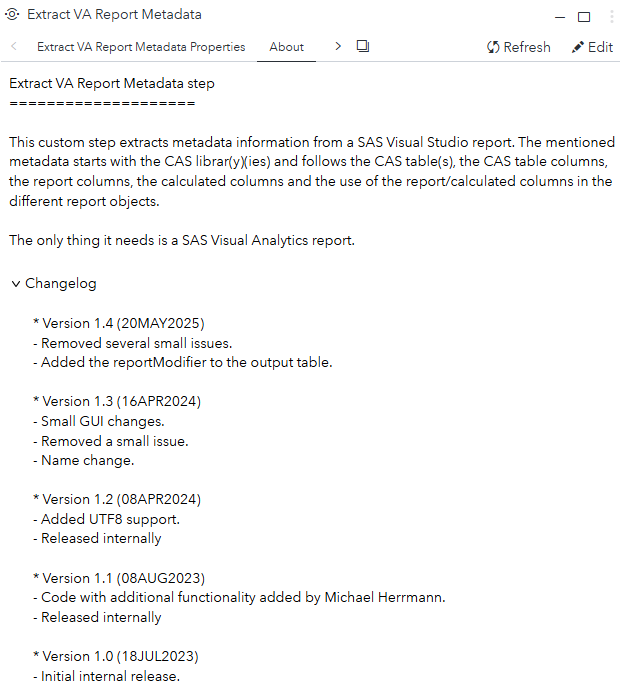
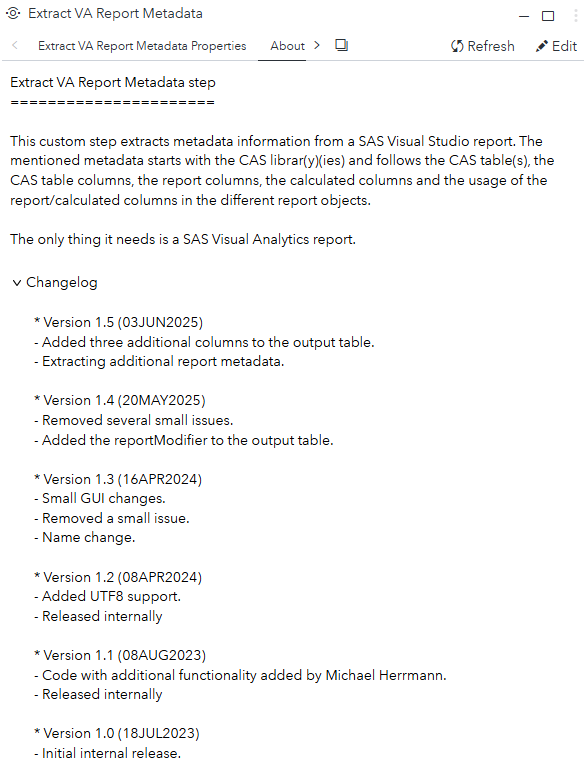
Added three additional output columns.

diff --git a/Extract VA Report Metadata/README.md b/Extract VA Report Metadata/README.md
@@ -50,8 +50,22 @@ Note that the flow shown can be used by the [Loop Deployed Object](../Loop%20Dep
 The custom step has one output table with the following columns:
 ![output](img/Output%20port.PNG)
 
+## Version 1.5
+
+New in version 1.5 are the columns:
+* reportCreator
+* reportCreateTS
+* reportUpdateTS
+
+The column 'reportPath' has been renamed to 'reportContentFolder'.
+
+Also new in version 1.5 is the extraction of additional metadata depending on the resources used by the report.
+
 ## Change Log
 
+* Version 1.5 (03JUN2025)
+    * Added three additional columns to the output table.
+    * Extracting additional report metadata.
 * Version 1.4 (20MAY2025)
     * Removed several small issues.
     * Added the reportModifier to the output table.
